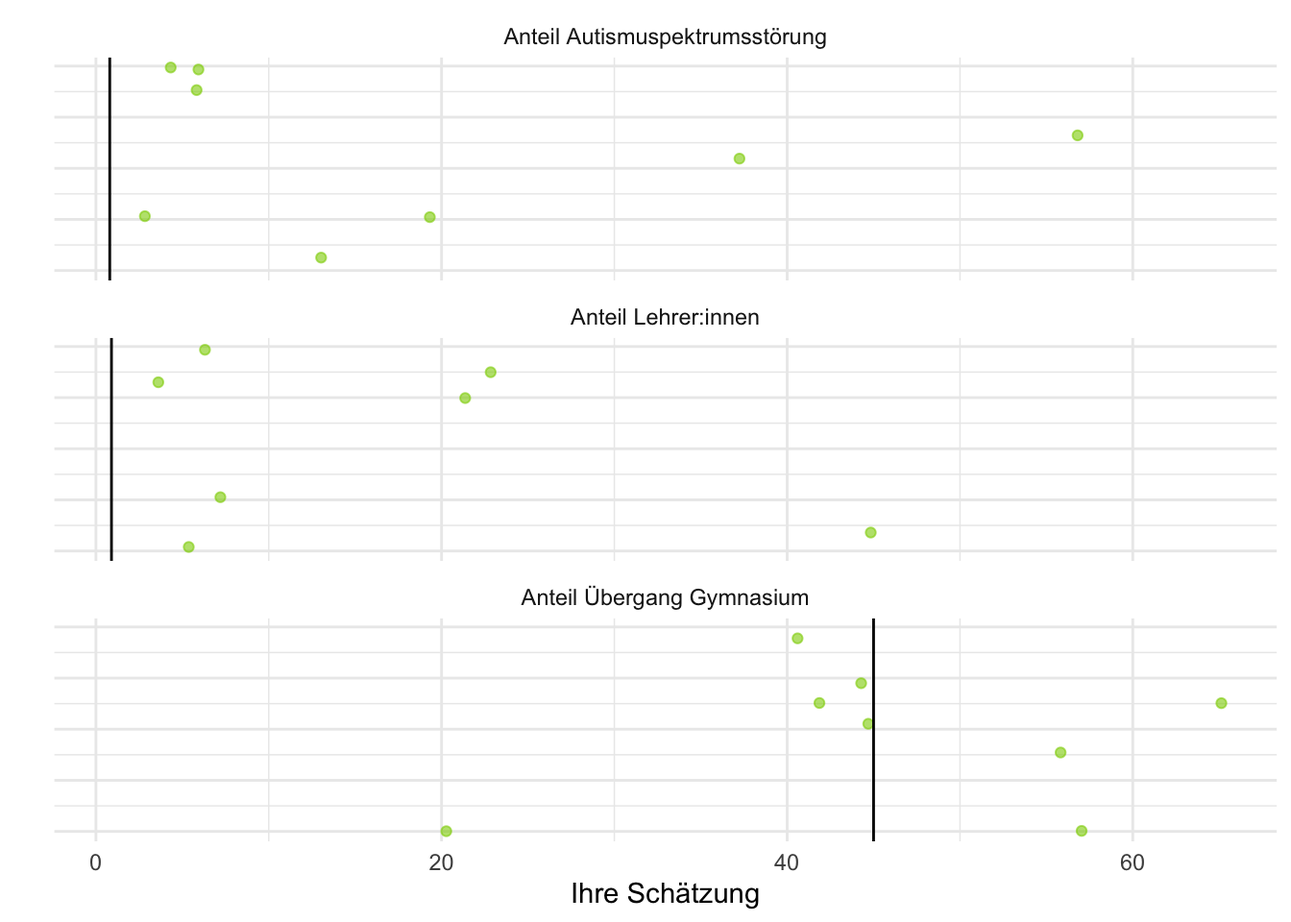
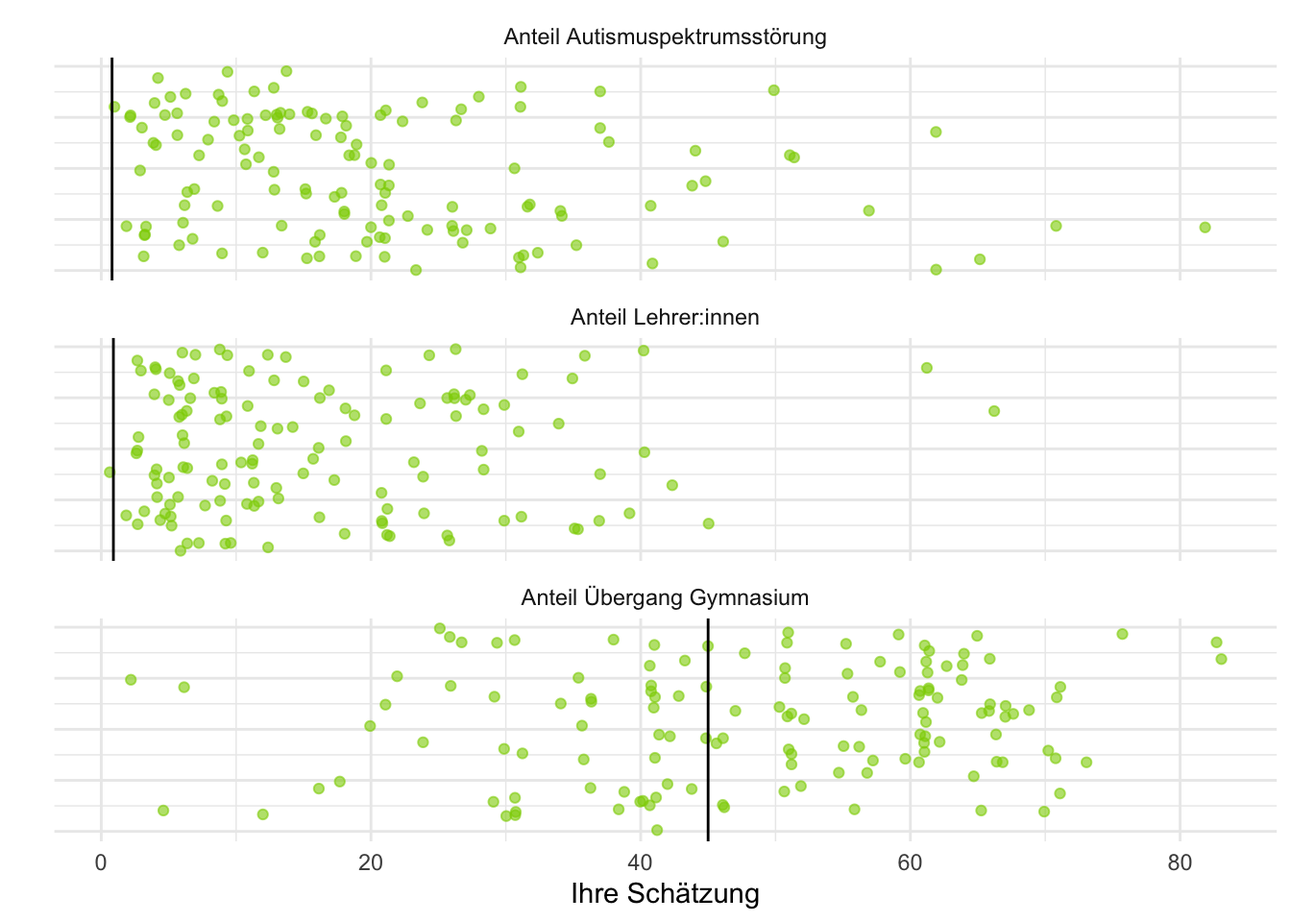
upadted schätzfragen

diff --git a/Block00-Einfuehrung/Auswertung-Schaetzfragen/Auswertung-Schaetzfragen.html b/Block00-Einfuehrung/Auswertung-Schaetzfragen/Auswertung-Schaetzfragen.html
@@ -106,31 +106,36 @@ pre > code.sourceCode > span > a:first-child::before { text-decoration: underlin
 <section id="download-der-daten" class="level1">
 <h1>Download der Daten</h1>
 <div class="cell">
-<div class="sourceCode cell-code" id="cb1"><pre class="sourceCode r code-with-copy"><code class="sourceCode r"><span id="cb1-1"><a href="#cb1-1" aria-hidden="true" tabindex="-1"></a><span class="fu">library</span>(tidyverse)</span></code><button title="Copy to Clipboard" class="code-copy-button"><i class="bi"></i></button></pre></div>
+<div class="sourceCode cell-code" id="cb1"><pre class="sourceCode r code-with-copy"><code class="sourceCode r"><span id="cb1-1"><a href="#cb1-1" aria-hidden="true" tabindex="-1"></a><span class="fu">library</span>(ggforce)</span></code><button title="Copy to Clipboard" class="code-copy-button"><i class="bi"></i></button></pre></div>
+<div class="cell-output cell-output-stderr">
+<pre><code>Loading required package: ggplot2</code></pre>
+</div>
+<div class="sourceCode cell-code" id="cb3"><pre class="sourceCode r code-with-copy"><code class="sourceCode r"><span id="cb3-1"><a href="#cb3-1" aria-hidden="true" tabindex="-1"></a><span class="fu">library</span>(tidyverse)</span></code><button title="Copy to Clipboard" class="code-copy-button"><i class="bi"></i></button></pre></div>
 <div class="cell-output cell-output-stderr">
 <pre><code>── Attaching core tidyverse packages ──────────────────────── tidyverse 2.0.0 ──
 ✔ dplyr     1.1.4     ✔ readr     2.1.5
 ✔ forcats   1.0.0     ✔ stringr   1.5.1
-✔ ggplot2   3.5.1     ✔ tibble    3.2.1
-✔ lubridate 1.9.3     ✔ tidyr     1.3.1
-✔ purrr     1.0.2     
-── Conflicts ────────────────────────────────────────── tidyverse_conflicts() ──
+✔ lubridate 1.9.3     ✔ tibble    3.2.1
+✔ purrr     1.0.2     ✔ tidyr     1.3.1</code></pre>
+</div>
+<div class="cell-output cell-output-stderr">
+<pre><code>── Conflicts ────────────────────────────────────────── tidyverse_conflicts() ──
 ✖ dplyr::filter() masks stats::filter()
 ✖ dplyr::lag()    masks stats::lag()
 ℹ Use the conflicted package (&lt;http://conflicted.r-lib.org/&gt;) to force all conflicts to become errors</code></pre>
 </div>
-<div class="sourceCode cell-code" id="cb3"><pre class="sourceCode r code-with-copy"><code class="sourceCode r"><span id="cb3-1"><a href="#cb3-1" aria-hidden="true" tabindex="-1"></a><span class="fu">source</span>(<span class="st">"https://survey.ph-karlsruhe.de/PISA22-einschaetzen/?act=oPAF8Chqu9MExebQDfSwWC2F&amp;vQuality&amp;rScript"</span>)</span>
-<span id="cb3-2"><a href="#cb3-2" aria-hidden="true" tabindex="-1"></a>ds <span class="ot">&lt;-</span> </span>
-<span id="cb3-3"><a href="#cb3-3" aria-hidden="true" tabindex="-1"></a>  ds <span class="sc">|&gt;</span></span>
-<span id="cb3-4"><a href="#cb3-4" aria-hidden="true" tabindex="-1"></a>  <span class="fu">filter</span>(lubridate<span class="sc">::</span><span class="fu">ymd_hms</span>(STARTED) <span class="sc">&gt;</span> lubridate<span class="sc">::</span><span class="fu">ymd_hms</span>(<span class="st">"2023-10-10 08:00:00"</span>))</span></code><button title="Copy to Clipboard" class="code-copy-button"><i class="bi"></i></button></pre></div>
+<div class="sourceCode cell-code" id="cb6"><pre class="sourceCode r code-with-copy"><code class="sourceCode r"><span id="cb6-1"><a href="#cb6-1" aria-hidden="true" tabindex="-1"></a><span class="fu">source</span>(<span class="st">"https://survey.ph-karlsruhe.de/PISA22-einschaetzen/?act=oPAF8Chqu9MExebQDfSwWC2F&amp;vQuality&amp;rScript"</span>)</span>
+<span id="cb6-2"><a href="#cb6-2" aria-hidden="true" tabindex="-1"></a>ds <span class="ot">&lt;-</span> </span>
+<span id="cb6-3"><a href="#cb6-3" aria-hidden="true" tabindex="-1"></a>  ds <span class="sc">%&gt;%</span></span>
+<span id="cb6-4"><a href="#cb6-4" aria-hidden="true" tabindex="-1"></a>  <span class="fu">filter</span>(lubridate<span class="sc">::</span><span class="fu">ymd_hms</span>(STARTED) <span class="sc">&gt;</span> lubridate<span class="sc">::</span><span class="fu">ymd_hms</span>(<span class="st">"2021-10-16 16:00:00"</span>))</span></code><button title="Copy to Clipboard" class="code-copy-button"><i class="bi"></i></button></pre></div>
 </div>
 </section>
 <section id="wie-viele-studis-haben-mitgemacht" class="level1">
 <h1>Wie viele Studis haben mitgemacht?</h1>
 <div class="cell">
-<div class="sourceCode cell-code" id="cb4"><pre class="sourceCode r code-with-copy"><code class="sourceCode r"><span id="cb4-1"><a href="#cb4-1" aria-hidden="true" tabindex="-1"></a><span class="fu">nrow</span>(ds)</span></code><button title="Copy to Clipboard" class="code-copy-button"><i class="bi"></i></button></pre></div>
+<div class="sourceCode cell-code" id="cb7"><pre class="sourceCode r code-with-copy"><code class="sourceCode r"><span id="cb7-1"><a href="#cb7-1" aria-hidden="true" tabindex="-1"></a><span class="fu">nrow</span>(ds)</span></code><button title="Copy to Clipboard" class="code-copy-button"><i class="bi"></i></button></pre></div>
 <div class="cell-output cell-output-stdout">
-<pre><code>[1] 89</code></pre>
+<pre><code>[1] 216</code></pre>
 </div>
 </div>
 </section>
@@ -139,34 +144,34 @@ pre > code.sourceCode > span > a:first-child::before { text-decoration: underlin
 <section id="rohwerte" class="level2">
 <h2 class="anchored" data-anchor-id="rohwerte">Rohwerte</h2>
 <div class="cell">
-<div class="sourceCode cell-code" id="cb6"><pre class="sourceCode r code-with-copy"><code class="sourceCode r"><span id="cb6-1"><a href="#cb6-1" aria-hidden="true" tabindex="-1"></a><span class="fu">library</span>(hrbrthemes)</span>
-<span id="cb6-2"><a href="#cb6-2" aria-hidden="true" tabindex="-1"></a>ds <span class="sc">|&gt;</span> </span>
-<span id="cb6-3"><a href="#cb6-3" aria-hidden="true" tabindex="-1"></a>  <span class="fu">as_tibble</span>() <span class="sc">%&gt;%</span> </span>
-<span id="cb6-4"><a href="#cb6-4" aria-hidden="true" tabindex="-1"></a>  <span class="fu">select</span>(G006_02, G006_03, G006_01) <span class="sc">%&gt;%</span> </span>
-<span id="cb6-5"><a href="#cb6-5" aria-hidden="true" tabindex="-1"></a>  <span class="fu">na.omit</span>() <span class="sc">%&gt;%</span> </span>
-<span id="cb6-6"><a href="#cb6-6" aria-hidden="true" tabindex="-1"></a>  <span class="fu">mutate_all</span>(<span class="cf">function</span>(x) <span class="fu">ifelse</span>(x <span class="sc">==</span> <span class="sc">-</span><span class="dv">9</span>, <span class="cn">NA</span>, x)) <span class="sc">%&gt;%</span> </span>
-<span id="cb6-7"><a href="#cb6-7" aria-hidden="true" tabindex="-1"></a>  <span class="fu">mutate</span>(<span class="st">`</span><span class="at">Anteil Lehrer:innen</span><span class="st">`</span> <span class="ot">=</span> G006_02,</span>
-<span id="cb6-8"><a href="#cb6-8" aria-hidden="true" tabindex="-1"></a>         <span class="st">`</span><span class="at">Anteil Übergang Gymnasium</span><span class="st">`</span> <span class="ot">=</span> G006_03,</span>
-<span id="cb6-9"><a href="#cb6-9" aria-hidden="true" tabindex="-1"></a>         <span class="st">`</span><span class="at">Anteil Autismuspektrumsstörung</span><span class="st">`</span> <span class="ot">=</span> G006_01) <span class="sc">|&gt;</span></span>
-<span id="cb6-10"><a href="#cb6-10" aria-hidden="true" tabindex="-1"></a>  <span class="fu">pivot_longer</span>(<span class="at">cols =</span> <span class="fu">c</span>(<span class="st">`</span><span class="at">Anteil Lehrer:innen</span><span class="st">`</span>, </span>
-<span id="cb6-11"><a href="#cb6-11" aria-hidden="true" tabindex="-1"></a>                        <span class="st">`</span><span class="at">Anteil Übergang Gymnasium</span><span class="st">`</span>,</span>
-<span id="cb6-12"><a href="#cb6-12" aria-hidden="true" tabindex="-1"></a>                        <span class="st">`</span><span class="at">Anteil Autismuspektrumsstörung</span><span class="st">`</span>),</span>
-<span id="cb6-13"><a href="#cb6-13" aria-hidden="true" tabindex="-1"></a>               <span class="at">names_to =</span> <span class="st">"Aufgabe"</span>, </span>
-<span id="cb6-14"><a href="#cb6-14" aria-hidden="true" tabindex="-1"></a>               <span class="at">values_to =</span> <span class="st">"Ihre Schätzung"</span>) <span class="sc">%&gt;%</span> </span>
-<span id="cb6-15"><a href="#cb6-15" aria-hidden="true" tabindex="-1"></a>  <span class="fu">mutate</span>(<span class="at">dummy =</span> <span class="dv">1</span>) <span class="sc">|&gt;</span> </span>
-<span id="cb6-16"><a href="#cb6-16" aria-hidden="true" tabindex="-1"></a>  <span class="fu">ggplot</span>(<span class="fu">aes</span>(<span class="at">x =</span> <span class="st">`</span><span class="at">Ihre Schätzung</span><span class="st">`</span>, <span class="at">y =</span> dummy)) <span class="sc">+</span></span>
-<span id="cb6-17"><a href="#cb6-17" aria-hidden="true" tabindex="-1"></a>    <span class="fu">geom_jitter</span>(<span class="at">alpha =</span> .<span class="dv">6</span>, <span class="at">color =</span> <span class="st">"#8cd000"</span>) <span class="sc">+</span></span>
-<span id="cb6-18"><a href="#cb6-18" aria-hidden="true" tabindex="-1"></a>    <span class="fu">geom_vline</span>(<span class="at">data =</span> <span class="fu">tibble</span>(<span class="st">`</span><span class="at">Ihre Schätzung</span><span class="st">`</span> <span class="ot">=</span> <span class="fu">c</span>(<span class="fl">0.9</span>, <span class="dv">45</span>, <span class="fl">0.8</span>),</span>
-<span id="cb6-19"><a href="#cb6-19" aria-hidden="true" tabindex="-1"></a>                             <span class="at">Aufgabe =</span> <span class="fu">c</span>(<span class="st">"Anteil Lehrer:innen"</span>,</span>
-<span id="cb6-20"><a href="#cb6-20" aria-hidden="true" tabindex="-1"></a>                                         <span class="st">"Anteil Übergang Gymnasium"</span>,</span>
-<span id="cb6-21"><a href="#cb6-21" aria-hidden="true" tabindex="-1"></a>                                         <span class="st">"Anteil Autismuspektrumsstörung"</span>)),</span>
-<span id="cb6-22"><a href="#cb6-22" aria-hidden="true" tabindex="-1"></a>               <span class="fu">aes</span>(<span class="at">xintercept =</span> <span class="st">`</span><span class="at">Ihre Schätzung</span><span class="st">`</span>)) <span class="sc">+</span></span>
-<span id="cb6-23"><a href="#cb6-23" aria-hidden="true" tabindex="-1"></a>    <span class="fu">facet_wrap</span>(<span class="sc">~</span> Aufgabe, <span class="at">ncol =</span> <span class="dv">1</span>) <span class="sc">+</span></span>
-<span id="cb6-24"><a href="#cb6-24" aria-hidden="true" tabindex="-1"></a>    <span class="fu">theme_minimal</span>() <span class="sc">+</span></span>
-<span id="cb6-25"><a href="#cb6-25" aria-hidden="true" tabindex="-1"></a>    <span class="fu">ylab</span>(<span class="st">""</span>) <span class="sc">+</span></span>
-<span id="cb6-26"><a href="#cb6-26" aria-hidden="true" tabindex="-1"></a>    <span class="fu">theme</span>(<span class="at">axis.text.y =</span> <span class="fu">element_blank</span>())</span></code><button title="Copy to Clipboard" class="code-copy-button"><i class="bi"></i></button></pre></div>
+<div class="sourceCode cell-code" id="cb9"><pre class="sourceCode r code-with-copy"><code class="sourceCode r"><span id="cb9-1"><a href="#cb9-1" aria-hidden="true" tabindex="-1"></a><span class="fu">library</span>(hrbrthemes)</span>
+<span id="cb9-2"><a href="#cb9-2" aria-hidden="true" tabindex="-1"></a>ds <span class="sc">%&gt;%</span> </span>
+<span id="cb9-3"><a href="#cb9-3" aria-hidden="true" tabindex="-1"></a>  <span class="fu">as_tibble</span>() <span class="sc">%&gt;%</span> </span>
+<span id="cb9-4"><a href="#cb9-4" aria-hidden="true" tabindex="-1"></a>  <span class="fu">select</span>(G006_02, G006_03, G006_01) <span class="sc">%&gt;%</span> </span>
+<span id="cb9-5"><a href="#cb9-5" aria-hidden="true" tabindex="-1"></a>  <span class="fu">na.omit</span>() <span class="sc">%&gt;%</span> </span>
+<span id="cb9-6"><a href="#cb9-6" aria-hidden="true" tabindex="-1"></a>  <span class="fu">mutate_all</span>(<span class="cf">function</span>(x) <span class="fu">ifelse</span>(x <span class="sc">==</span> <span class="sc">-</span><span class="dv">9</span>, <span class="cn">NA</span>, x)) <span class="sc">%&gt;%</span> </span>
+<span id="cb9-7"><a href="#cb9-7" aria-hidden="true" tabindex="-1"></a>  <span class="fu">mutate</span>(<span class="st">`</span><span class="at">Anteil Lehrer:innen</span><span class="st">`</span> <span class="ot">=</span> G006_02,</span>
+<span id="cb9-8"><a href="#cb9-8" aria-hidden="true" tabindex="-1"></a>         <span class="st">`</span><span class="at">Anteil Übergang Gymnasium</span><span class="st">`</span> <span class="ot">=</span> G006_03,</span>
+<span id="cb9-9"><a href="#cb9-9" aria-hidden="true" tabindex="-1"></a>         <span class="st">`</span><span class="at">Anteil Autismuspektrumsstörung</span><span class="st">`</span> <span class="ot">=</span> G006_01) <span class="sc">%&gt;%</span></span>
+<span id="cb9-10"><a href="#cb9-10" aria-hidden="true" tabindex="-1"></a>  <span class="fu">pivot_longer</span>(<span class="at">cols =</span> <span class="fu">c</span>(<span class="st">`</span><span class="at">Anteil Lehrer:innen</span><span class="st">`</span>, </span>
+<span id="cb9-11"><a href="#cb9-11" aria-hidden="true" tabindex="-1"></a>                        <span class="st">`</span><span class="at">Anteil Übergang Gymnasium</span><span class="st">`</span>,</span>
+<span id="cb9-12"><a href="#cb9-12" aria-hidden="true" tabindex="-1"></a>                        <span class="st">`</span><span class="at">Anteil Autismuspektrumsstörung</span><span class="st">`</span>),</span>
+<span id="cb9-13"><a href="#cb9-13" aria-hidden="true" tabindex="-1"></a>               <span class="at">names_to =</span> <span class="st">"Aufgabe"</span>, </span>
+<span id="cb9-14"><a href="#cb9-14" aria-hidden="true" tabindex="-1"></a>               <span class="at">values_to =</span> <span class="st">"Ihre Schätzung"</span>) <span class="sc">%&gt;%</span> </span>
+<span id="cb9-15"><a href="#cb9-15" aria-hidden="true" tabindex="-1"></a>  <span class="fu">mutate</span>(<span class="at">dummy =</span> <span class="dv">1</span>) <span class="sc">%&gt;%</span> </span>
+<span id="cb9-16"><a href="#cb9-16" aria-hidden="true" tabindex="-1"></a>  <span class="fu">ggplot</span>(<span class="fu">aes</span>(<span class="at">x =</span> <span class="st">`</span><span class="at">Ihre Schätzung</span><span class="st">`</span>, <span class="at">y =</span> dummy)) <span class="sc">+</span></span>
+<span id="cb9-17"><a href="#cb9-17" aria-hidden="true" tabindex="-1"></a>    <span class="fu">geom_jitter</span>(<span class="at">alpha =</span> .<span class="dv">6</span>, <span class="at">color =</span> <span class="st">"#8cd000"</span>) <span class="sc">+</span></span>
+<span id="cb9-18"><a href="#cb9-18" aria-hidden="true" tabindex="-1"></a>    <span class="fu">geom_vline</span>(<span class="at">data =</span> <span class="fu">tibble</span>(<span class="st">`</span><span class="at">Ihre Schätzung</span><span class="st">`</span> <span class="ot">=</span> <span class="fu">c</span>(<span class="fl">0.9</span>, <span class="dv">45</span>, <span class="fl">0.8</span>),</span>
+<span id="cb9-19"><a href="#cb9-19" aria-hidden="true" tabindex="-1"></a>                             <span class="at">Aufgabe =</span> <span class="fu">c</span>(<span class="st">"Anteil Lehrer:innen"</span>,</span>
+<span id="cb9-20"><a href="#cb9-20" aria-hidden="true" tabindex="-1"></a>                                         <span class="st">"Anteil Übergang Gymnasium"</span>,</span>
+<span id="cb9-21"><a href="#cb9-21" aria-hidden="true" tabindex="-1"></a>                                         <span class="st">"Anteil Autismuspektrumsstörung"</span>)),</span>
+<span id="cb9-22"><a href="#cb9-22" aria-hidden="true" tabindex="-1"></a>               <span class="fu">aes</span>(<span class="at">xintercept =</span> <span class="st">`</span><span class="at">Ihre Schätzung</span><span class="st">`</span>)) <span class="sc">+</span></span>
+<span id="cb9-23"><a href="#cb9-23" aria-hidden="true" tabindex="-1"></a>    <span class="fu">facet_wrap</span>(<span class="sc">~</span> Aufgabe, <span class="at">ncol =</span> <span class="dv">1</span>) <span class="sc">+</span></span>
+<span id="cb9-24"><a href="#cb9-24" aria-hidden="true" tabindex="-1"></a>    <span class="fu">theme_minimal</span>() <span class="sc">+</span></span>
+<span id="cb9-25"><a href="#cb9-25" aria-hidden="true" tabindex="-1"></a>    <span class="fu">ylab</span>(<span class="st">""</span>) <span class="sc">+</span></span>
+<span id="cb9-26"><a href="#cb9-26" aria-hidden="true" tabindex="-1"></a>    <span class="fu">theme</span>(<span class="at">axis.text.y =</span> <span class="fu">element_blank</span>())</span></code><button title="Copy to Clipboard" class="code-copy-button"><i class="bi"></i></button></pre></div>
 <div class="cell-output cell-output-stderr">
-<pre><code>Warning: Removed 16 rows containing missing values or values outside the scale range
+<pre><code>Warning: Removed 24 rows containing missing values or values outside the scale range
 (`geom_point()`).</code></pre>
 </div>
 <div class="cell-output-display">
@@ -208,47 +213,93 @@ pre > code.sourceCode > span > a:first-child::before { text-decoration: underlin
 </div>
 </div>
 <div class="cell">
-<div class="sourceCode cell-code" id="cb8"><pre class="sourceCode r code-with-copy"><code class="sourceCode r"><span id="cb8-1"><a href="#cb8-1" aria-hidden="true" tabindex="-1"></a>ds <span class="sc">%&gt;%</span> </span>
-<span id="cb8-2"><a href="#cb8-2" aria-hidden="true" tabindex="-1"></a>  <span class="fu">select</span>(CASE, G001_01, G003_01, G004_01, ZG01) <span class="sc">|&gt;</span></span>
-<span id="cb8-3"><a href="#cb8-3" aria-hidden="true" tabindex="-1"></a>  <span class="fu">gather</span>(Stimulus, <span class="st">`</span><span class="at">Probability of Superiority</span><span class="st">`</span>,<span class="sc">-</span>CASE,<span class="sc">-</span>ZG01,<span class="sc">-</span>G001_01) <span class="sc">|&gt;</span></span>
-<span id="cb8-4"><a href="#cb8-4" aria-hidden="true" tabindex="-1"></a>  <span class="fu">mutate</span>(</span>
-<span id="cb8-5"><a href="#cb8-5" aria-hidden="true" tabindex="-1"></a>    <span class="at">Stimulus =</span> <span class="fu">case_when</span>(</span>
-<span id="cb8-6"><a href="#cb8-6" aria-hidden="true" tabindex="-1"></a>      Stimulus <span class="sc">==</span> <span class="st">"G003_01"</span> <span class="sc">~</span> <span class="st">"Originalgrafik taz"</span>,</span>
-<span id="cb8-7"><a href="#cb8-7" aria-hidden="true" tabindex="-1"></a>      Stimulus <span class="sc">==</span> <span class="st">"G004_01"</span> <span class="sc">~</span> <span class="st">"Überlappungsgrafik"</span></span>
-<span id="cb8-8"><a href="#cb8-8" aria-hidden="true" tabindex="-1"></a>    ),</span>
-<span id="cb8-9"><a href="#cb8-9" aria-hidden="true" tabindex="-1"></a>    <span class="st">`</span><span class="at">Probability of Superiority</span><span class="st">`</span> <span class="ot">=</span> <span class="fu">ifelse</span>(<span class="st">`</span><span class="at">Probability of Superiority</span><span class="st">`</span> <span class="sc">&lt;</span> <span class="dv">0</span>, </span>
-<span id="cb8-10"><a href="#cb8-10" aria-hidden="true" tabindex="-1"></a>                                          <span class="cn">NA</span>,</span>
-<span id="cb8-11"><a href="#cb8-11" aria-hidden="true" tabindex="-1"></a>                                          <span class="st">`</span><span class="at">Probability of Superiority</span><span class="st">`</span>),</span>
-<span id="cb8-12"><a href="#cb8-12" aria-hidden="true" tabindex="-1"></a>   <span class="st">`</span><span class="at">Probability of Superiority</span><span class="st">`</span> <span class="ot">=</span> (<span class="st">`</span><span class="at">Probability of Superiority</span><span class="st">`</span> <span class="sc">-</span> <span class="dv">50</span>) <span class="sc">/</span></span>
-<span id="cb8-13"><a href="#cb8-13" aria-hidden="true" tabindex="-1"></a>      <span class="dv">200</span> <span class="sc">+</span> .<span class="dv">75</span></span>
-<span id="cb8-14"><a href="#cb8-14" aria-hidden="true" tabindex="-1"></a>  ) <span class="sc">|&gt;</span> </span>
-<span id="cb8-15"><a href="#cb8-15" aria-hidden="true" tabindex="-1"></a>  <span class="fu">ggplot</span>(<span class="fu">aes</span>(Stimulus, <span class="st">`</span><span class="at">Probability of Superiority</span><span class="st">`</span>)) <span class="sc">+</span></span>
-<span id="cb8-16"><a href="#cb8-16" aria-hidden="true" tabindex="-1"></a>  <span class="fu">geom_violin</span>() <span class="sc">+</span></span>
-<span id="cb8-17"><a href="#cb8-17" aria-hidden="true" tabindex="-1"></a>  ggforce<span class="sc">::</span><span class="fu">geom_sina</span>() <span class="sc">+</span> </span>
-<span id="cb8-18"><a href="#cb8-18" aria-hidden="true" tabindex="-1"></a>  <span class="fu">stat_summary</span>(<span class="at">fun.data =</span> mean_sdl, <span class="at">fun.args =</span> <span class="fu">list</span>(<span class="at">mult =</span> <span class="dv">1</span>),</span>
-<span id="cb8-19"><a href="#cb8-19" aria-hidden="true" tabindex="-1"></a>               <span class="at">color =</span> <span class="st">"#8cd000"</span>) <span class="sc">+</span></span>
-<span id="cb8-20"><a href="#cb8-20" aria-hidden="true" tabindex="-1"></a>  <span class="fu">theme_minimal</span>() <span class="sc">+</span></span>
-<span id="cb8-21"><a href="#cb8-21" aria-hidden="true" tabindex="-1"></a>  <span class="fu">ggtitle</span>(<span class="st">""</span>)</span></code><button title="Copy to Clipboard" class="code-copy-button"><i class="bi"></i></button></pre></div>
+<div class="sourceCode cell-code" id="cb11"><pre class="sourceCode r code-with-copy"><code class="sourceCode r"><span id="cb11-1"><a href="#cb11-1" aria-hidden="true" tabindex="-1"></a>ds <span class="sc">%&gt;%</span> </span>
+<span id="cb11-2"><a href="#cb11-2" aria-hidden="true" tabindex="-1"></a>  <span class="fu">select</span>(CASE, G001_01, G003_01, G004_01, ZG01) <span class="sc">%&gt;%</span></span>
+<span id="cb11-3"><a href="#cb11-3" aria-hidden="true" tabindex="-1"></a>  <span class="fu">gather</span>(Stimulus, <span class="st">`</span><span class="at">Probability of Superiority</span><span class="st">`</span>,<span class="sc">-</span>CASE,<span class="sc">-</span>ZG01,<span class="sc">-</span>G001_01) <span class="sc">%&gt;%</span></span>
+<span id="cb11-4"><a href="#cb11-4" aria-hidden="true" tabindex="-1"></a>  <span class="fu">mutate</span>(</span>
+<span id="cb11-5"><a href="#cb11-5" aria-hidden="true" tabindex="-1"></a>    <span class="at">Stimulus =</span> <span class="fu">case_when</span>(</span>
+<span id="cb11-6"><a href="#cb11-6" aria-hidden="true" tabindex="-1"></a>      Stimulus <span class="sc">==</span> <span class="st">"G003_01"</span> <span class="sc">~</span> <span class="st">"Originalgrafik taz"</span>,</span>
+<span id="cb11-7"><a href="#cb11-7" aria-hidden="true" tabindex="-1"></a>      Stimulus <span class="sc">==</span> <span class="st">"G004_01"</span> <span class="sc">~</span> <span class="st">"Überlappungsgrafik"</span></span>
+<span id="cb11-8"><a href="#cb11-8" aria-hidden="true" tabindex="-1"></a>    ),</span>
+<span id="cb11-9"><a href="#cb11-9" aria-hidden="true" tabindex="-1"></a>    <span class="st">`</span><span class="at">Probability of Superiority</span><span class="st">`</span> <span class="ot">=</span> <span class="fu">ifelse</span>(<span class="st">`</span><span class="at">Probability of Superiority</span><span class="st">`</span> <span class="sc">&lt;</span> <span class="dv">0</span>, </span>
+<span id="cb11-10"><a href="#cb11-10" aria-hidden="true" tabindex="-1"></a>                                          <span class="cn">NA</span>,</span>
+<span id="cb11-11"><a href="#cb11-11" aria-hidden="true" tabindex="-1"></a>                                          <span class="st">`</span><span class="at">Probability of Superiority</span><span class="st">`</span>),</span>
+<span id="cb11-12"><a href="#cb11-12" aria-hidden="true" tabindex="-1"></a>   <span class="st">`</span><span class="at">Probability of Superiority</span><span class="st">`</span> <span class="ot">=</span> (<span class="st">`</span><span class="at">Probability of Superiority</span><span class="st">`</span> <span class="sc">-</span> <span class="dv">50</span>) <span class="sc">/</span></span>
+<span id="cb11-13"><a href="#cb11-13" aria-hidden="true" tabindex="-1"></a>      <span class="dv">200</span> <span class="sc">+</span> .<span class="dv">75</span></span>
+<span id="cb11-14"><a href="#cb11-14" aria-hidden="true" tabindex="-1"></a>  ) <span class="sc">%&gt;%</span> </span>
+<span id="cb11-15"><a href="#cb11-15" aria-hidden="true" tabindex="-1"></a>  <span class="fu">ggplot</span>(<span class="fu">aes</span>(Stimulus, <span class="st">`</span><span class="at">Probability of Superiority</span><span class="st">`</span>)) <span class="sc">+</span></span>
+<span id="cb11-16"><a href="#cb11-16" aria-hidden="true" tabindex="-1"></a>  <span class="fu">geom_violin</span>() <span class="sc">+</span></span>
+<span id="cb11-17"><a href="#cb11-17" aria-hidden="true" tabindex="-1"></a>  <span class="fu">geom_sina</span>() <span class="sc">+</span> </span>
+<span id="cb11-18"><a href="#cb11-18" aria-hidden="true" tabindex="-1"></a>  <span class="fu">stat_summary</span>(<span class="at">fun.data =</span> mean_sdl, <span class="at">fun.args =</span> <span class="fu">list</span>(<span class="at">mult =</span> <span class="dv">1</span>),</span>
+<span id="cb11-19"><a href="#cb11-19" aria-hidden="true" tabindex="-1"></a>               <span class="at">color =</span> <span class="st">"#8cd000"</span>) <span class="sc">+</span></span>
+<span id="cb11-20"><a href="#cb11-20" aria-hidden="true" tabindex="-1"></a>  <span class="fu">theme_minimal</span>() <span class="sc">+</span></span>
+<span id="cb11-21"><a href="#cb11-21" aria-hidden="true" tabindex="-1"></a>  <span class="fu">ggtitle</span>(<span class="st">""</span>)</span></code><button title="Copy to Clipboard" class="code-copy-button"><i class="bi"></i></button></pre></div>
 <div class="cell-output cell-output-stderr">
 <pre><code>Warning: attributes are not identical across measure variables; they will be
 dropped</code></pre>
 </div>
 <div class="cell-output cell-output-stderr">
-<pre><code>Warning: Removed 108 rows containing non-finite outside the scale range
+<pre><code>Warning: Removed 237 rows containing non-finite outside the scale range
 (`stat_ydensity()`).</code></pre>
 </div>
 <div class="cell-output cell-output-stderr">
-<pre><code>Warning: Removed 108 rows containing non-finite outside the scale range
+<pre><code>Warning: Removed 237 rows containing non-finite outside the scale range
 (`stat_sina()`).</code></pre>
 </div>
 <div class="cell-output cell-output-stderr">
-<pre><code>Warning: Removed 108 rows containing non-finite outside the scale range
+<pre><code>Warning: Removed 237 rows containing non-finite outside the scale range
 (`stat_summary()`).</code></pre>
 </div>
 <div class="cell-output-display">
 <div>
 <figure class="figure">
 <p><img src="Auswertung-Schaetzfragen_files/figure-html/unnamed-chunk-4-1.png" class="img-fluid figure-img" width="672"></p>
+</figure>
+</div>
+</div>
+</div>
+</section>
+</section>
+<section id="überlappung-erst--und-dritt--vs.-erst--und-sechsklässler" class="level1">
+<h1>Überlappung Erst- und Dritt- vs.&nbsp;Erst- und Sechsklässler</h1>
+<section id="design-1" class="level2">
+<h2 class="anchored" data-anchor-id="design-1">Design</h2>
+<p>Wieder wurde zufällig entschieden ob Sie eine Grafik für die Körpergrößern von</p>
+<ul>
+<li>Erst- und Drittklässer:innen oder</li>
+<li>Erst- und Sechsklässler:innen bauen sollten</li>
+</ul>
+<div class="cell">
+<div class="sourceCode cell-code" id="cb16"><pre class="sourceCode r code-with-copy"><code class="sourceCode r"><span id="cb16-1"><a href="#cb16-1" aria-hidden="true" tabindex="-1"></a>ds <span class="sc">%&gt;%</span> </span>
+<span id="cb16-2"><a href="#cb16-2" aria-hidden="true" tabindex="-1"></a>  <span class="fu">select</span>(ZG01, G007_01) <span class="sc">%&gt;%</span> </span>
+<span id="cb16-3"><a href="#cb16-3" aria-hidden="true" tabindex="-1"></a>  <span class="fu">mutate</span>(<span class="at">Gruppe =</span> <span class="fu">ifelse</span>(ZG01 <span class="sc">==</span> <span class="dv">1</span>, </span>
+<span id="cb16-4"><a href="#cb16-4" aria-hidden="true" tabindex="-1"></a>                         <span class="st">"Erst- vs. Drittklässer:innen"</span>,</span>
+<span id="cb16-5"><a href="#cb16-5" aria-hidden="true" tabindex="-1"></a>                         <span class="st">"Erst- vs. Sechstklässer:innen"</span>),</span>
+<span id="cb16-6"><a href="#cb16-6" aria-hidden="true" tabindex="-1"></a>         <span class="st">`</span><span class="at">Geschätzte Überlappung</span><span class="st">`</span> <span class="ot">=</span> G007_01) <span class="sc">%&gt;%</span> </span>
+<span id="cb16-7"><a href="#cb16-7" aria-hidden="true" tabindex="-1"></a>  <span class="fu">ggplot</span>(<span class="fu">aes</span>(<span class="st">`</span><span class="at">Geschätzte Überlappung</span><span class="st">`</span>, Gruppe)) <span class="sc">+</span></span>
+<span id="cb16-8"><a href="#cb16-8" aria-hidden="true" tabindex="-1"></a>  <span class="fu">geom_sina</span>() <span class="sc">+</span></span>
+<span id="cb16-9"><a href="#cb16-9" aria-hidden="true" tabindex="-1"></a>  <span class="fu">stat_summary</span>(<span class="at">fun.data =</span> mean_sdl, </span>
+<span id="cb16-10"><a href="#cb16-10" aria-hidden="true" tabindex="-1"></a>               <span class="at">fun.args =</span> <span class="fu">list</span>(<span class="at">mult =</span> <span class="dv">1</span>),</span>
+<span id="cb16-11"><a href="#cb16-11" aria-hidden="true" tabindex="-1"></a>               <span class="at">color =</span> <span class="st">"#8cd000"</span>) <span class="sc">+</span></span>
+<span id="cb16-12"><a href="#cb16-12" aria-hidden="true" tabindex="-1"></a>  <span class="fu">xlim</span>(<span class="fu">c</span>(<span class="dv">0</span>,<span class="dv">100</span>)) <span class="sc">+</span></span>
+<span id="cb16-13"><a href="#cb16-13" aria-hidden="true" tabindex="-1"></a>  <span class="fu">ylab</span>(<span class="st">""</span>) <span class="sc">+</span></span>
+<span id="cb16-14"><a href="#cb16-14" aria-hidden="true" tabindex="-1"></a>  <span class="fu">theme_minimal</span>()</span></code><button title="Copy to Clipboard" class="code-copy-button"><i class="bi"></i></button></pre></div>
+<div class="cell-output cell-output-stderr">
+<pre><code>Warning: Removed 105 rows containing non-finite outside the scale range
+(`stat_sina()`).</code></pre>
+</div>
+<div class="cell-output cell-output-stderr">
+<pre><code>Warning: Removed 105 rows containing non-finite outside the scale range
+(`stat_summary()`).</code></pre>
+</div>
+<div class="cell-output cell-output-stderr">
+<pre><code>Warning: Removed 8 rows containing missing values or values outside the scale range
+(`geom_point()`).</code></pre>
+</div>
+<div class="cell-output-display">
+<div>
+<figure class="figure">
+<p><img src="Auswertung-Schaetzfragen_files/figure-html/unnamed-chunk-5-1.png" class="img-fluid figure-img" width="672"></p>
 </figure>
 </div>
 </div>
